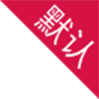
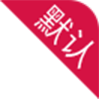
fix：优化选择地址

Changed region(s): [[0.7273, 0.0, 1.0, 0.2727]]

diff --git a/src/pages/mine/page/myaddress/AddressManagerPage.js b/src/pages/mine/page/myaddress/AddressManagerPage.js
@@ -6,6 +6,7 @@ import addrUnselectedImg from '../../res/address/dizhi_btn_moren_nor.png';
 import addrBorderImgN from '../../res/address/dizhi_img_nor.png';
 import addrBorderImgS from '../../res/address/dizhi_img_sel.png';
 import addrRight from '../../res/address/dizhi_icon_moren_sel.png';
+import dingwei from '../../res/address/dizhi_icon_dingwei_nor.png';
 import MineAPI from '../../api/MineApi';
 import bridge from '../../../../utils/bridge';
 import ScreenUtils from '../../../../utils/ScreenUtils';
@@ -90,7 +91,7 @@ export default class AddressManagerPage extends BasePage {
                    style={styles.topImage}/>
             <View style={styles.cell}>
                 <View style={{ flexDirection: 'row', alignItems: 'center', paddingTop: 20 }}>
-                    <Image source={addrRight}
+                    <Image source={dingwei}
                            style={{
                                width: 16,
                                height: 20,
